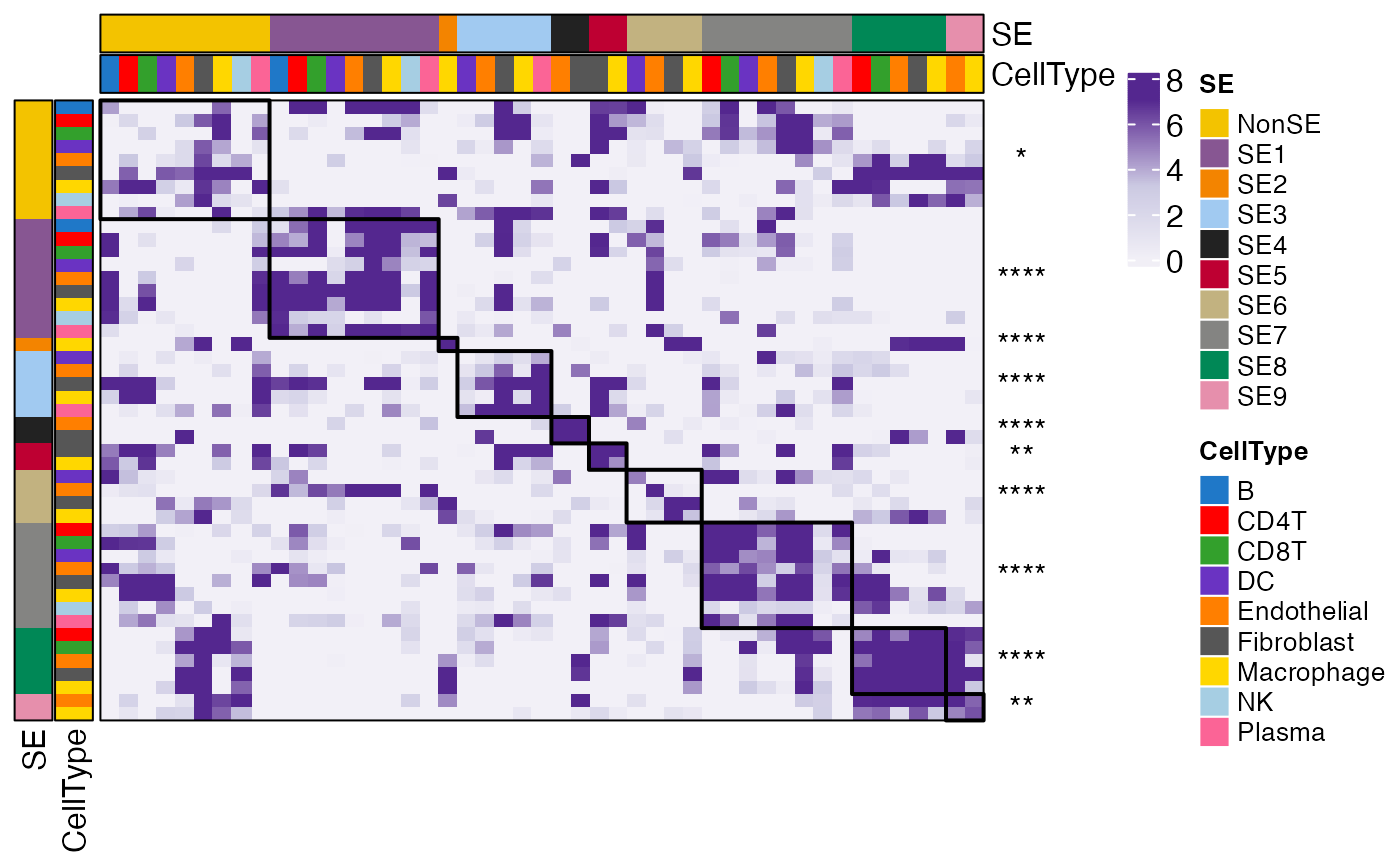
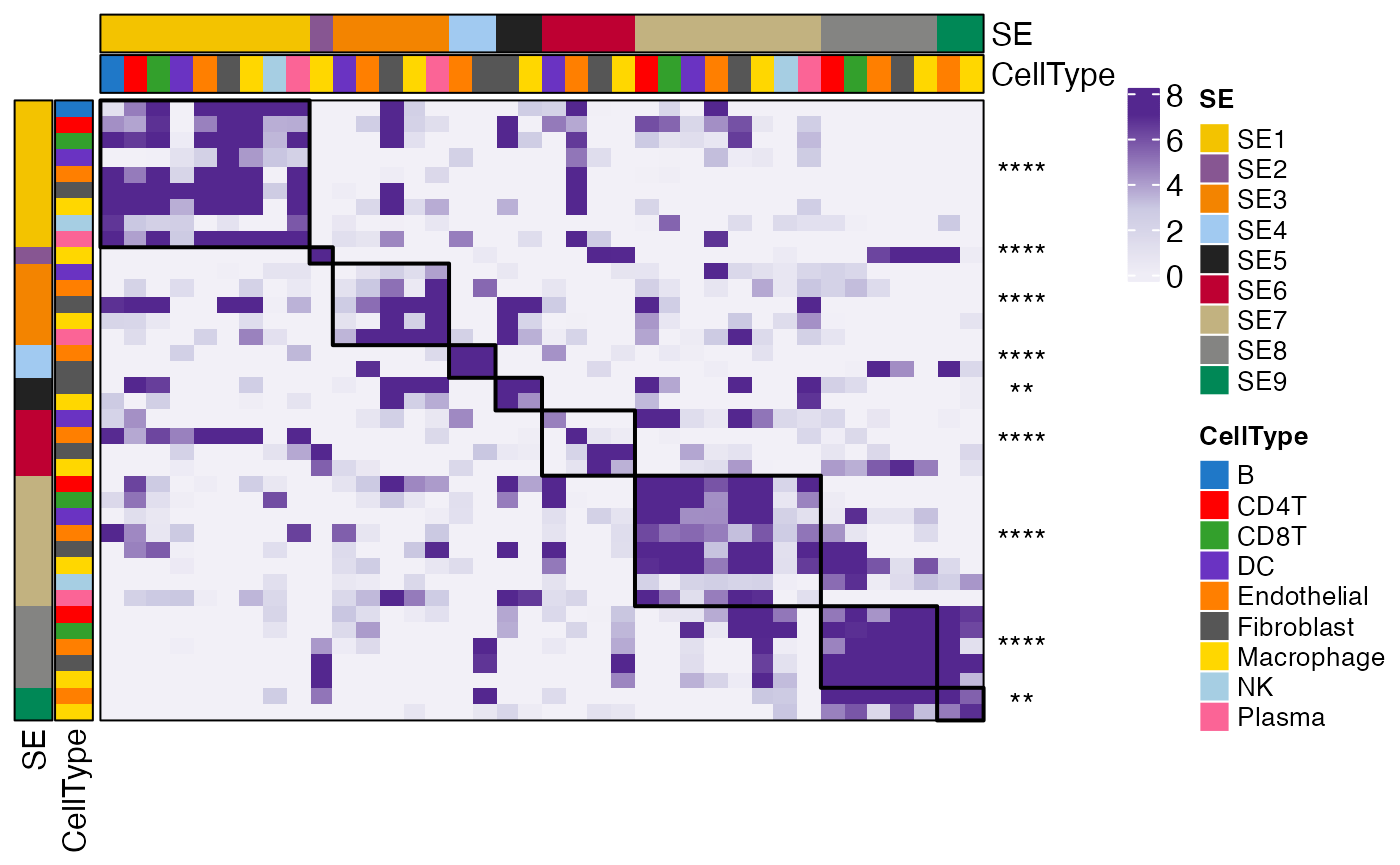
minor update in documentation

Changed region(s): [[0.0, 0.0, 0.7371, 0.8428], [0.7986, 0.0624, 1.0, 0.874], [0.7064, 0.5618, 0.7371, 0.6243]]

diff --git a/docs/articles/Recovery_scST.html b/docs/articles/Recovery_scST.html
@@ -290,30 +290,30 @@ p-values.</p>
 <span>                           test <span class="op">=</span> <span class="cn">TRUE</span>, ncores <span class="op">=</span> <span class="fl">8</span><span class="op">)</span></span>
 <span><span class="fu"><a href="https://rdrr.io/r/utils/head.html" class="external-link">head</a></span><span class="op">(</span><span class="va">coloc_res</span><span class="op">$</span><span class="va">ColocIndex</span><span class="op">[</span>, <span class="fl">1</span><span class="op">:</span><span class="fl">5</span><span class="op">]</span><span class="op">)</span> <span class="co">## Matrix of colocalization indices between all cell states</span></span></code></pre></div>
 <pre><code><span><span class="co">##                        NonSE_B NonSE_CD4T NonSE_CD8T   NonSE_DC</span></span>
-<span><span class="co">## NonSE_B            3.265136403 -0.1774107 -2.2682281 -2.7868274</span></span>
-<span><span class="co">## NonSE_CD4T        -0.003317375  1.1586776 -0.3802599 -2.8652307</span></span>
-<span><span class="co">## NonSE_CD8T        -2.092051997 -0.4346717  1.9194732 -3.1468917</span></span>
-<span><span class="co">## NonSE_DC          -2.629236308 -2.4138352 -2.9739437 -1.3257280</span></span>
-<span><span class="co">## NonSE_Endothelial -2.157207724  2.2962563 -0.4921598  0.7111869</span></span>
-<span><span class="co">## NonSE_Fibroblast  -9.095637338  4.0506290 -2.6503315  4.2681754</span></span>
+<span><span class="co">## NonSE_B            3.970389238 -0.1624605 -2.1162423 -2.4298632</span></span>
+<span><span class="co">## NonSE_CD4T         0.009812473  1.5134314 -0.3255878 -2.8581591</span></span>
+<span><span class="co">## NonSE_CD8T        -2.006907107 -0.3918131  1.6930296 -2.7574830</span></span>
+<span><span class="co">## NonSE_DC          -2.332089080 -2.3978338 -2.4922694 -1.0597699</span></span>
+<span><span class="co">## NonSE_Endothelial -2.241489706  2.1510424 -0.4820897  0.7969341</span></span>
+<span><span class="co">## NonSE_Fibroblast  -8.066893359  3.8398388 -2.8359897  3.3939711</span></span>
 <span><span class="co">##                   NonSE_Endothelial</span></span>
-<span><span class="co">## NonSE_B                  -2.1996055</span></span>
-<span><span class="co">## NonSE_CD4T                2.2479095</span></span>
-<span><span class="co">## NonSE_CD8T               -0.7860502</span></span>
-<span><span class="co">## NonSE_DC                  1.1468466</span></span>
-<span><span class="co">## NonSE_Endothelial         1.1798595</span></span>
-<span><span class="co">## NonSE_Fibroblast          3.6536554</span></span></code></pre>
+<span><span class="co">## NonSE_B                  -2.2557678</span></span>
+<span><span class="co">## NonSE_CD4T                2.1074706</span></span>
+<span><span class="co">## NonSE_CD8T               -0.6819464</span></span>
+<span><span class="co">## NonSE_DC                  1.2322100</span></span>
+<span><span class="co">## NonSE_Endothelial         1.2050178</span></span>
+<span><span class="co">## NonSE_Fibroblast          3.7865150</span></span></code></pre>
 <div class="sourceCode" id="cb19"><pre class="downlit sourceCode r">
 <code class="sourceCode R"><span><span class="va">coloc_res</span><span class="op">$</span><span class="va">Pval</span> <span class="co">## Vector of p-values for colocalization significance</span></span></code></pre></div>
 <pre><code><span><span class="co">##        NonSE          SE1          SE2          SE3          SE4          SE5 </span></span>
-<span><span class="co">## 1.830725e-01 9.422777e-07 8.075153e-03 1.253369e-03 1.780443e-13 2.013595e-02 </span></span>
+<span><span class="co">## 1.401091e-01 8.529161e-07 1.226892e-02 1.852659e-03 2.166610e-13 3.087928e-02 </span></span>
 <span><span class="co">##          SE6          SE7          SE8          SE9 </span></span>
-<span><span class="co">## 4.661994e-04 1.104305e-04 1.103762e-05 5.397374e-02 </span></span>
+<span><span class="co">## 9.030704e-04 1.145476e-04 1.681407e-05 6.295019e-02 </span></span>
 <span><span class="co">## attr(,"Zscore")</span></span>
 <span><span class="co">##    NonSE      SE1      SE2      SE3      SE4      SE5      SE6      SE7 </span></span>
-<span><span class="co">## 1.331354 4.903325 2.648911 3.226448 7.364326 2.323805 3.499461 3.866451 </span></span>
+<span><span class="co">## 1.475385 4.922853 2.504314 3.112889 7.338092 2.158625 3.319103 3.857511 </span></span>
 <span><span class="co">##      SE8      SE9 </span></span>
-<span><span class="co">## 4.395779 1.927047</span></span></code></pre>
+<span><span class="co">## 4.303474 1.859543</span></span></code></pre>
 <p>The <a href="../reference/ColocalizationMetaAnalysis.html">ColocalizationMetaAnalysis</a>
 function can be used to perform meta-analysis of cell-state
 colocalization results across samples. It applies Stouffer’s method to
@@ -330,32 +330,35 @@ matrix and a meta P value for each SE.</p>
 <span><span class="co"># Integrated matrix of cell-state colocalization indices</span></span>
 <span><span class="fu"><a href="https://rdrr.io/r/utils/head.html" class="external-link">head</a></span><span class="op">(</span><span class="va">meta_coloc_res</span><span class="op">$</span><span class="va">MetaColocIndex</span><span class="op">[</span>, <span class="fl">1</span><span class="op">:</span><span class="fl">5</span><span class="op">]</span><span class="op">)</span></span></code></pre></div>
 <pre><code><span><span class="co">##                        NonSE_B NonSE_CD4T NonSE_CD8T  NonSE_DC</span></span>
-<span><span class="co">## NonSE_B            4.202128644 -0.2414997 -3.1864587 -3.922139</span></span>
-<span><span class="co">## NonSE_CD4T         0.001980834  1.9162945 -0.7114995 -4.147639</span></span>
-<span><span class="co">## NonSE_CD8T        -2.961477010 -0.7719172  2.5248112 -4.072189</span></span>
-<span><span class="co">## NonSE_DC          -3.701821294 -3.5283477 -3.8689562 -1.958927</span></span>
-<span><span class="co">## NonSE_Endothelial -2.990428031  3.2635293 -0.5377002  1.185728</span></span>
-<span><span class="co">## NonSE_Fibroblast  -7.071067312  5.6899418 -3.8619013  5.870893</span></span>
+<span><span class="co">## NonSE_B            5.233744069 -0.2474707 -3.3606688 -3.572136</span></span>
+<span><span class="co">## NonSE_CD4T         0.006112496  2.0296757 -0.5586481 -4.115024</span></span>
+<span><span class="co">## NonSE_CD8T        -3.152517682 -0.6551338  2.4956098 -3.888006</span></span>
+<span><span class="co">## NonSE_DC          -3.422278100 -3.4963289 -3.5821056 -1.732949</span></span>
+<span><span class="co">## NonSE_Endothelial -2.991042985  3.1264029 -0.6024698  1.156264</span></span>
+<span><span class="co">## NonSE_Fibroblast  -7.071067312  5.4299692 -3.7697673  5.351498</span></span>
 <span><span class="co">##                   NonSE_Endothelial</span></span>
-<span><span class="co">## NonSE_B                  -3.0182767</span></span>
-<span><span class="co">## NonSE_CD4T                3.2005924</span></span>
-<span><span class="co">## NonSE_CD8T               -0.8910858</span></span>
-<span><span class="co">## NonSE_DC                  1.7882288</span></span>
-<span><span class="co">## NonSE_Endothelial         1.7449904</span></span>
-<span><span class="co">## NonSE_Fibroblast          5.5444970</span></span></code></pre>
+<span><span class="co">## NonSE_B                  -3.0245007</span></span>
+<span><span class="co">## NonSE_CD4T                3.0136000</span></span>
+<span><span class="co">## NonSE_CD8T               -0.9020229</span></span>
+<span><span class="co">## NonSE_DC                  1.7705968</span></span>
+<span><span class="co">## NonSE_Endothelial         1.6029810</span></span>
+<span><span class="co">## NonSE_Fibroblast          5.5801747</span></span></code></pre>
 <div class="sourceCode" id="cb23"><pre class="downlit sourceCode r">
 <code class="sourceCode R"><span><span class="co"># Meta-analysis P values</span></span>
 <span><span class="va">meta_coloc_res</span><span class="op">$</span><span class="va">MetaPval</span></span></code></pre></div>
 <pre><code><span><span class="co">##        NonSE          SE1          SE2          SE3          SE4          SE5 </span></span>
-<span><span class="co">## 3.967504e-02 7.505801e-10 2.223083e-05 2.077098e-05 5.589288e-20 1.492053e-03 </span></span>
+<span><span class="co">## 3.520380e-02 7.560580e-10 2.940250e-06 2.124253e-05 1.391236e-20 2.273957e-03 </span></span>
 <span><span class="co">##          SE6          SE7          SE8          SE9 </span></span>
-<span><span class="co">## 2.331223e-06 1.768900e-08 5.351536e-09 4.865494e-03</span></span></code></pre>
+<span><span class="co">## 5.797137e-06 1.613424e-08 6.224519e-09 6.287200e-03</span></span></code></pre>
 <p>You can visualize the results using the <a href="../reference/CooccurrenceHeatmapView.html">CooccurrenceHeatmapView</a>
 function.</p>
 <div class="sourceCode" id="cb25"><pre class="downlit sourceCode r">
-<code class="sourceCode R"><span><span class="va">p</span> <span class="op">=</span> <span class="fu"><a href="../reference/CooccurrenceHeatmapView.html">CooccurrenceHeatmapView</a></span><span class="op">(</span><span class="va">meta_coloc_res</span><span class="op">$</span><span class="va">MetaColocIndex</span>, <span class="va">meta_coloc_res</span><span class="op">$</span><span class="va">MetaPval</span><span class="op">)</span></span>
+<code class="sourceCode R"><span><span class="co">## Exclude NonSE from the visualization</span></span>
+<span><span class="va">idx</span> <span class="op">=</span> <span class="fu"><a href="https://rdrr.io/r/base/grep.html" class="external-link">grepl</a></span><span class="op">(</span><span class="st">"NonSE"</span>, <span class="fu"><a href="https://rdrr.io/r/base/colnames.html" class="external-link">rownames</a></span><span class="op">(</span><span class="va">meta_coloc_res</span><span class="op">$</span><span class="va">MetaColocIndex</span><span class="op">)</span><span class="op">)</span></span>
+<span><span class="va">p</span> <span class="op">=</span> <span class="fu"><a href="../reference/CooccurrenceHeatmapView.html">CooccurrenceHeatmapView</a></span><span class="op">(</span><span class="va">meta_coloc_res</span><span class="op">$</span><span class="va">MetaColocIndex</span><span class="op">[</span><span class="op">!</span><span class="va">idx</span>, <span class="op">!</span><span class="va">idx</span><span class="op">]</span>,</span>
+<span>                            <span class="va">meta_coloc_res</span><span class="op">$</span><span class="va">MetaPval</span><span class="op">)</span></span>
 <span><span class="va">p</span> <span class="op">=</span> <span class="fu">ComplexHeatmap</span><span class="fu">::</span><span class="fu"><a href="https://rdrr.io/pkg/ComplexHeatmap/man/draw-dispatch.html" class="external-link">draw</a></span><span class="op">(</span><span class="va">p</span><span class="op">)</span></span>
-<span><span class="va">ses</span> <span class="op">=</span> <span class="fu"><a href="https://rdrr.io/r/base/grep.html" class="external-link">gsub</a></span><span class="op">(</span><span class="st">"_.*"</span>, <span class="st">""</span>, <span class="fu"><a href="https://rdrr.io/r/base/colnames.html" class="external-link">rownames</a></span><span class="op">(</span><span class="va">meta_coloc_res</span><span class="op">$</span><span class="va">MetaColocIndex</span><span class="op">)</span><span class="op">)</span></span>
+<span><span class="va">ses</span> <span class="op">=</span> <span class="fu"><a href="https://rdrr.io/r/base/grep.html" class="external-link">gsub</a></span><span class="op">(</span><span class="st">"_.*"</span>, <span class="st">""</span>, <span class="fu"><a href="https://rdrr.io/r/base/colnames.html" class="external-link">rownames</a></span><span class="op">(</span><span class="va">meta_coloc_res</span><span class="op">$</span><span class="va">MetaColocIndex</span><span class="op">)</span><span class="op">[</span><span class="op">!</span><span class="va">idx</span><span class="op">]</span><span class="op">)</span></span>
 <span><span class="fu"><a href="../reference/drawRectangleAnnotation.html">drawRectangleAnnotation</a></span><span class="op">(</span><span class="va">p</span>, <span class="va">ses</span>, <span class="va">ses</span><span class="op">)</span></span></code></pre></div>
 <p><img src="Recovery_scST_files/figure-html/visualcoloc-1.png" width="700"></p>
 </div>

diff --git a/docs/articles/Recovery_Bulk.html b/docs/articles/Recovery_Bulk.html
@@ -192,12 +192,12 @@ primary and metastatic melanoma samples.</p>
 <span><span class="va">sefracs</span><span class="op">$</span><span class="va">Group</span><span class="op">[</span><span class="fu"><a href="https://rdrr.io/r/base/grep.html" class="external-link">grepl</a></span><span class="op">(</span><span class="st">"01$"</span>, <span class="fu"><a href="https://rdrr.io/r/base/colnames.html" class="external-link">rownames</a></span><span class="op">(</span><span class="va">sefracs</span><span class="op">)</span><span class="op">)</span><span class="op">]</span> <span class="op">=</span> <span class="st">"Primary"</span></span>
 <span><span class="va">sefracs</span><span class="op">$</span><span class="va">Group</span><span class="op">[</span><span class="fu"><a href="https://rdrr.io/r/base/grep.html" class="external-link">grepl</a></span><span class="op">(</span><span class="st">"06$"</span>, <span class="fu"><a href="https://rdrr.io/r/base/colnames.html" class="external-link">rownames</a></span><span class="op">(</span><span class="va">sefracs</span><span class="op">)</span><span class="op">)</span><span class="op">]</span> <span class="op">=</span> <span class="st">"Metastatic"</span></span>
 <span></span>
-<span><span class="fu"><a href="https://ggplot2.tidyverse.org/reference/ggplot.html" class="external-link">ggplot</a></span><span class="op">(</span><span class="va">sefracs</span>, <span class="fu"><a href="https://ggplot2.tidyverse.org/reference/aes.html" class="external-link">aes</a></span><span class="op">(</span><span class="va">Group</span>, <span class="va">SE1</span><span class="op">)</span><span class="op">)</span> <span class="op">+</span> </span>
+<span><span class="fu"><a href="https://ggplot2.tidyverse.org/reference/ggplot.html" class="external-link">ggplot</a></span><span class="op">(</span><span class="va">sefracs</span><span class="op">[</span><span class="op">!</span><span class="fu"><a href="https://rdrr.io/r/base/NA.html" class="external-link">is.na</a></span><span class="op">(</span><span class="va">sefracs</span><span class="op">$</span><span class="va">Group</span><span class="op">)</span>, <span class="op">]</span>, <span class="fu"><a href="https://ggplot2.tidyverse.org/reference/aes.html" class="external-link">aes</a></span><span class="op">(</span><span class="va">Group</span>, <span class="va">SE1</span><span class="op">)</span><span class="op">)</span> <span class="op">+</span> </span>
 <span>  <span class="fu"><a href="https://ggplot2.tidyverse.org/reference/geom_boxplot.html" class="external-link">geom_boxplot</a></span><span class="op">(</span>width <span class="op">=</span> <span class="fl">0.5</span>, outlier.shape <span class="op">=</span> <span class="cn">NA</span><span class="op">)</span> <span class="op">+</span> </span>
 <span>  <span class="fu">ggpubr</span><span class="fu">::</span><span class="fu"><a href="https://rpkgs.datanovia.com/ggpubr/reference/stat_compare_means.html" class="external-link">stat_compare_means</a></span><span class="op">(</span>comparisons <span class="op">=</span> <span class="fu"><a href="https://rdrr.io/r/base/list.html" class="external-link">list</a></span><span class="op">(</span><span class="fu"><a href="https://rdrr.io/r/base/c.html" class="external-link">c</a></span><span class="op">(</span><span class="st">"Primary"</span>, <span class="st">"Metastatic"</span><span class="op">)</span><span class="op">)</span><span class="op">)</span> <span class="op">+</span></span>
 <span>  <span class="fu"><a href="https://ggplot2.tidyverse.org/reference/geom_jitter.html" class="external-link">geom_jitter</a></span><span class="op">(</span>width <span class="op">=</span> <span class="fl">0.1</span>, size <span class="op">=</span> <span class="fl">0.2</span><span class="op">)</span> <span class="op">+</span> </span>
 <span>  <span class="fu"><a href="https://ggplot2.tidyverse.org/reference/ggtheme.html" class="external-link">theme_classic</a></span><span class="op">(</span>base_size <span class="op">=</span> <span class="fl">14</span><span class="op">)</span></span></code></pre></div>
-<p><img src="Recovery_Bulk_files/figure-html/visualse-1.png" width="700"></p>
+<p><img src="Recovery_Bulk_files/figure-html/visualse-1.png" width="384"></p>
 </div>
 </div>
 <div class="section level2">